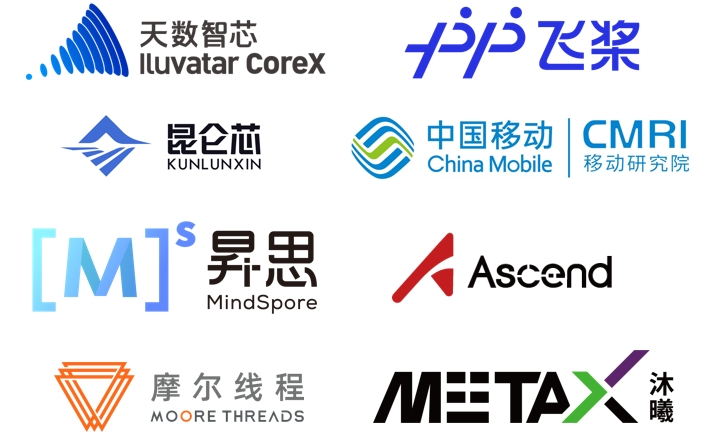
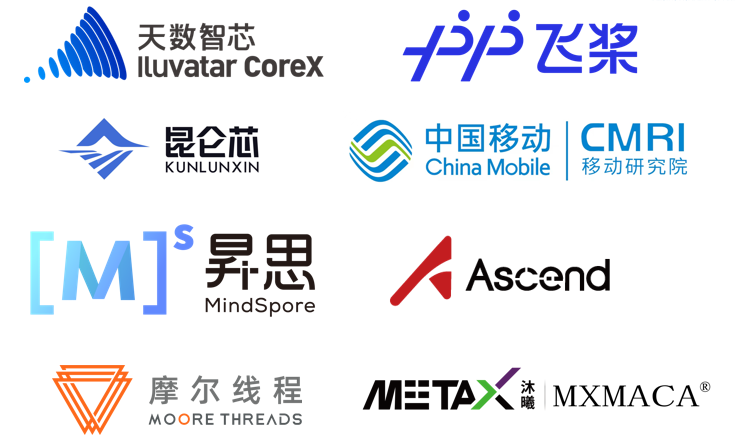
fix update (#437)

diff --git a/README.md b/README.md
@@ -63,6 +63,7 @@
       <th>昆仑芯</th>
       <th>天数智芯</th>
       <th>摩尔线程</th>
+      <th>沐曦</th>
     </tr>
   </thead>
   <tbody>
@@ -74,6 +75,7 @@
       <td>N/A</td>
       <td>N/A</td>
         <td>N/A</td>
+        <td>N/A</td>
     </tr>
     <tr>
       <td>2</td>
@@ -82,6 +84,7 @@
       <td><a href="https://github.com/FlagOpen/FlagPerf/tree/main/training/nvidia/baichuan2_13b-deepspeed">deepspeed</a></td>
       <td>N/A</td>
       <td>N/A</td>
+        <td>N/A</td>
         <td>N/A</td>
     </tr>
     <tr>
@@ -92,6 +95,7 @@
       <td><a href="https://github.com/FlagOpen/FlagPerf/tree/main/training/kunlunxin/bert-paddle">paddle</a>, <a href="https://github.com/FlagOpen/FlagPerf/tree/main/training/kunlunxin/bert-pytorch">pytorch</a></td>
       <td><a href="https://github.com/FlagOpen/FlagPerf/tree/main/training/iluvatar/bert-paddle">paddle</a>, <a href="https://github.com/FlagOpen/FlagPerf/tree/main/training/iluvatar/bert-pytorch">pytorch</a></td>
         <td>N/A</td>
+        <td>N/A</td>
     </tr>
     <tr>
       <td>4</td>
@@ -101,6 +105,7 @@
       <td>N/A</td>
       <td><a href="https://github.com/FlagOpen/FlagPerf/tree/main/training/iluvatar/bert_hf-pytorch">pytorch</a></td>
         <td><a href="https://github.com/FlagOpen/FlagPerf/tree/main/training/mthreads/bert_hf-pytorch">pytorch</a></td>
+        <td>N/A</td>
     </tr>
     <tr>
       <td>5</td>
@@ -109,6 +114,7 @@
       <td><a href="https://github.com/FlagOpen/FlagPerf/tree/main/training/nvidia/bigtransfer-pytorch">pytorch</a></td>
       <td><a href="https://github.com/FlagOpen/FlagPerf/tree/main/training/kunlunxin/bigtransfer-pytorch">pytorch</a></td>
       <td><a href="https://github.com/FlagOpen/FlagPerf/tree/main/training/iluvatar/bigtransfer-pytorch">pytorch</a></td>
+        <td>N/A</td>
         <td>N/A</td>
     </tr>
     <tr>
@@ -119,6 +125,7 @@
       <td><a href="https://github.com/FlagOpen/FlagPerf/tree/main/training/kunlunxin/cpm-pytorch">pytorch</a></td>
       <td><a href="https://github.com/FlagOpen/FlagPerf/tree/main/training/iluvatar/cpm-pytorch">pytorch</a></td>
         <td>N/A</td>
+        <td>N/A</td>
     </tr>
     <tr>
       <td>7</td>
@@ -127,6 +134,7 @@
       <td><a href="https://github.com/FlagOpen/FlagPerf/tree/main/training/nvidia/detr-pytorch">pytorch</a></td>
       <td><a href="https://github.com/FlagOpen/FlagPerf/tree/main/training/kunlunxin/detr-pytorch">pytorch</a></td>
       <td>N/A</td>
+        <td>N/A</td>
         <td>N/A</td>
     </tr>
     <tr>
@@ -137,6 +145,7 @@
       <td><a href="https://github.com/FlagOpen/FlagPerf/tree/main/training/kunlunxin/distilbert-pytorch">pytorch</a></td>
       <td>N/A</td>
         <td>N/A</td>
+        <td>N/A</td>
     </tr>
     <tr>
       <td>9</td>
@@ -145,6 +154,7 @@
       <td><a href="https://github.com/FlagOpen/FlagPerf/tree/main/training/nvidia/dlrm-pytorch">pytorch</a></td>
       <td>N/A</td>
       <td>N/A</td>
+        <td>N/A</td>
         <td>N/A</td>
     </tr>
     <tr>
@@ -155,6 +165,7 @@
       <td><a href="https://github.com/FlagOpen/FlagPerf/tree/main/training/kunlunxin/efficientnet-pytorch">pytorch</a></td>
       <td><a href="https://github.com/FlagOpen/FlagPerf/tree/main/training/iluvatar/efficientnet-pytorch">pytorch</a></td>
         <td>N/A</td>
+        <td>N/A</td>
     </tr>
     <tr>
       <td>11</td>
@@ -164,6 +175,7 @@
       <td><a href="https://github.com/FlagOpen/FlagPerf/tree/main/training/kunlunxin/faster_rcnn-pytorch">pytorch</a></td>
       <td><a href="https://github.com/FlagOpen/FlagPerf/tree/main/training/iluvatar/faster_rcnn-pytorch">pytorch</a></td>
         <td>N/A</td>
+        <td><a href="https://github.com/FlagOpen/FlagPerf/tree/main/training/metax/faster_rcnn-pytorch">pytorch</a></td>
     </tr>
     <tr>
       <td>12</td>
@@ -172,6 +184,7 @@
       <td><a href="https://github.com/FlagOpen/FlagPerf/tree/main/training/nvidia/glm-pytorch">pytorch</a></td>
       <td><a href="https://github.com/FlagOpen/FlagPerf/tree/main/training/kunlunxin/glm-pytorch">pytorch</a></td>
       <td><a href="https://github.com/FlagOpen/FlagPerf/tree/main/training/iluvatar/glm-pytorch">pytorch</a></td>
+        <td>N/A</td>
         <td>N/A</td>
     </tr>
     <tr>
@@ -182,6 +195,7 @@
       <td><a href="https://github.com/FlagOpen/FlagPerf/tree/main/training/kunlunxin/gpt2-pytorch">pytorch</a></td>
       <td>N/A</td>
         <td>N/A</td>
+        <td>N/A</td>
     </tr>
     <tr>
      <td>14</td> 
@@ -190,6 +204,7 @@
       <td><a href="https://github.com/FlagOpen/FlagPerf/tree/main/training/nvidia/gpt3_13B-paddle">paddle</a></td>
       <td>N/A</td>
       <td>N/A</td>
+        <td>N/A</td>
         <td>N/A</td>
     </tr>
     <tr>
@@ -200,6 +215,7 @@
       <td>N/A</td>
       <td>N/A</td>
         <td>N/A</td>
+        <td>N/A</td>
     </tr>
     <tr>
       <td>16</td>
@@ -208,6 +224,7 @@
       <td><a href="https://github.com/FlagOpen/FlagPerf/tree/main/training/nvidia/llama1_13B-paddle">paddle</a></td>
       <td>N/A</td>
       <td>N/A</td>
+        <td>N/A</td>
         <td>N/A</td>
     </tr>
     <tr>
@@ -218,6 +235,7 @@
       <td>N/A</td>
       <td>N/A</td>
         <td>N/A</td>
+        <td>N/A</td>
     </tr>
     <tr>
       <td>18</td>
@@ -227,12 +245,14 @@
       <td><a href="https://github.com/FlagOpen/FlagPerf/pull/348">deepspeed</a></td>
       <td><a href="https://github.com/FlagOpen/FlagPerf/pull/343">deepspeed</a></td>
         <td><a href="https://github.com/FlagOpen/FlagPerf/pull/354">deepspeed</a></td>
+        <td>N/A</td>
     </tr>
       <tr>
       <td>19</td>
           <td><a href="https://github.com/FlagOpen/FlagPerf/tree/main/training/benchmarks/llama2_7b_finetune">llama2_7b_finetune</a></td>
       <td>LLM</td>
       <td><a href="https://github.com/FlagOpen/FlagPerf/tree/main/training/nvidia/llama2_7b_finetune-pytorch">pytorch</a></td>
+      <td>N/A</td>
       <td>N/A</td>
       <td>N/A</td>
       <td>N/A</td>
@@ -245,6 +265,7 @@
       <td>N/A</td>
       <td>N/A</td>
       <td>N/A</td>
+      <td>N/A</td>
     </tr>
     <tr>
       <td>21</td>
@@ -252,6 +273,7 @@
       <td>NLP</td>
       <td><a href="https://github.com/FlagOpen/FlagPerf/tree/main/training/nvidia/longformer-pytorch">pytorch</a></td>
         <td><a href="https://github.com/FlagOpen/FlagPerf/tree/main/training/kunlunxin/longformer-pytorch">pytorch</a></td>
+      <td>N/A</td>
       <td>N/A</td>
       <td>N/A</td>
     </tr>
@@ -263,6 +285,7 @@
       <td><a href="https://github.com/FlagOpen/FlagPerf/tree/main/training/kunlunxin/mask_rcnn-pytorch">pytorch</a></td>
       <td><a href="https://github.com/FlagOpen/FlagPerf/tree/main/training/iluvatar/mask_rcnn-pytorch">pytorch</a></td>
         <td>N/A</td>
+        <td>N/A</td>
     </tr>
     <tr>
       <td>23</td>
@@ -271,6 +294,7 @@
       <td><a href="https://github.com/FlagOpen/FlagPerf/tree/main/training/nvidia/mobilenetv2-pytorch">pytorch</a></td>
       <td><a href="https://github.com/FlagOpen/FlagPerf/tree/main/training/kunlunxin/mobilenetv2-pytorch">pytorch</a></td>
       <td><a href="https://github.com/FlagOpen/FlagPerf/tree/main/training/iluvatar/mobilenetv2-pytorch">pytorch</a></td>
+        <td>N/A</td>
         <td>N/A</td>
     </tr>
     <tr>
@@ -281,6 +305,7 @@
       <td><a href="https://github.com/FlagOpen/FlagPerf/tree/main/training/kunlunxin/resnet50-pytorch">pytorch</a></td>
       <td><a href="https://github.com/FlagOpen/FlagPerf/tree/main/training/iluvatar/resnet50-pytorch">pytorch</a></td>
         <td><a href="https://github.com/FlagOpen/FlagPerf/tree/main/training/mthreads/resnet50-pytorch">pytorch</a></td>
+        <td><a href="https://github.com/FlagOpen/FlagPerf/tree/main/training/metax/resnet50-pytorch">pytorch</a></td>
     </tr>
     <tr>
       <td>25</td>
@@ -290,6 +315,7 @@
       <td><a href="https://github.com/FlagOpen/FlagPerf/tree/main/training/kunlunxin/retinanet-pytorch">pytorch</a></td>
       <td><a href="https://github.com/FlagOpen/FlagPerf/tree/main/training/iluvatar/retinanet-pytorch">pytorch</a></td>
         <td><a href="https://github.com/FlagOpen/FlagPerf/tree/main/training/mthreads/retinanet-pytorch">pytorch</a></td>
+         <td><a href="https://github.com/FlagOpen/FlagPerf/tree/main/training/metax/retinanet-pytorch">pytorch</a></td>
     </tr>
     <tr>
       <td>26</td>
@@ -299,6 +325,7 @@
       <td><a href="https://github.com/FlagOpen/FlagPerf/tree/main/training/kunlunxin/swin_transformer-pytorch">pytorch</a></td>
       <td><a href="https://github.com/FlagOpen/FlagPerf/tree/main/training/iluvatar/swin_transformer-pytorch">pytorch</a></td>
         <td>N/A</td>
+        <td><a href="https://github.com/FlagOpen/FlagPerf/tree/main/training/metax/swin_transformer-pytorch">pytorch</a></td>
     </tr>
     <tr>
       <td>27</td>
@@ -308,6 +335,7 @@
       <td><a href="https://github.com/FlagOpen/FlagPerf/tree/main/training/kunlunxin/t5_small-pytorch">pytorch</a></td>
       <td>N/A</td>
         <td>N/A</td>
+         <td><a href="https://github.com/FlagOpen/FlagPerf/tree/main/training/metax/t5_small-pytorch">pytorch</a></td>
     </tr>
     <tr>
       <td>28</td>
@@ -316,6 +344,7 @@
       <td><a href="https://github.com/FlagOpen/FlagPerf/tree/main/training/nvidia/tacotron2-pytorch">pytorch</a></td>
       <td><a href="https://github.com/FlagOpen/FlagPerf/tree/main/training/kunlunxin/tacotron2-pytorch">pytorch</a></td>
       <td><a href="https://github.com/FlagOpen/FlagPerf/tree/main/training/iluvatar/tacotron2-pytorch">pytorch</a></td>
+        <td>N/A</td>
         <td>N/A</td>
     </tr>
     <tr>
@@ -326,6 +355,7 @@
       <td><a href="https://github.com/FlagOpen/FlagPerf/tree/main/training/kunlunxin/transformer-pytorch">pytorch</a></td>
       <td><a href="https://github.com/FlagOpen/FlagPerf/tree/main/training/iluvatar/transformer-pytorch">pytorch</a></td>
         <td>N/A</td>
+        <td>N/A</td>
     </tr>
     <tr>
       <td>30</td>
@@ -335,6 +365,7 @@
       <td><a href="https://github.com/FlagOpen/FlagPerf/tree/main/training/kunlunxin/transformer_xl-pytorch">pytorch</a></td>
       <td>N/A</td>
         <td>N/A</td>
+        <td><a href="https://github.com/FlagOpen/FlagPerf/tree/main/training/metax/transformer_xl-pytorch">pytorch</a></td>
     </tr>
     <tr>
       <td>31</td>
@@ -343,6 +374,7 @@
       <td><a href="https://github.com/FlagOpen/FlagPerf/tree/main/training/nvidia/vit-pytorch">pytorch</a></td>
       <td><a href="https://github.com/FlagOpen/FlagPerf/tree/main/training/kunlunxin/vit-pytorch">pytorch</a></td>
       <td><a href="https://github.com/FlagOpen/FlagPerf/tree/main/training/iluvatar/vit-pytorch">pytorch</a></td>
+        <td>N/A</td>
         <td>N/A</td>
     </tr>
     <tr>
@@ -353,6 +385,7 @@
       <td><a href="https://github.com/FlagOpen/FlagPerf/tree/main/training/kunlunxin/wav2vec2-pytorch">pytorch</a></td>
       <td>N/A</td>
         <td>N/A</td>
+        <td>N/A</td>
     </tr>
     <tr>
       <td>33</td>
@@ -361,6 +394,7 @@
       <td><a href="https://github.com/FlagOpen/FlagPerf/tree/main/training/nvidia/WaveGlow-pytorch">pytorch</a></td>
       <td>N/A</td>
       <td>N/A</td>
+        <td>N/A</td>
         <td>N/A</td>
     </tr>
   </tbody>

diff --git a/training/nvidia/detr-pytorch/README.md b/training/nvidia/detr-pytorch/README.md
@@ -42,4 +42,4 @@
 | ------------------- | --------- | -------------- | -------- | ------- | ------- | ------ | ----- | --------- |
 | A100单机8卡（1x8）  | fp32      | bs=8,lr=0.0001 | 220047   | 161.32  | 172.99  | 208.68 | 0.405 | 37.2/40.0 |
 | A100单机单卡（1x1） | fp32      | bs=8,lr=0.0001 | /        | 27.98   | 29.25   | 33.71  | /     | 38.2/40.0 |
-| A100两机8卡（2x8）  | fp32      |                | /        |         |         |        | /     |           |
+| A100两机16卡（2x8）  | fp32      |     /           | /        | 309.5        |  332.7       |  378.1      | /     |   39.6/40.0        |

diff --git a/training/nvidia/gpt2-pytorch/README.md b/training/nvidia/gpt2-pytorch/README.md
@@ -40,3 +40,4 @@
 | ------------------- | --------- | ---------------- | -------- | ------- | ------- | ------ | ----------- | --------- |
 | A100单机单卡（1x1） | fp32      | / | /        | 9.6     | 14.2    | 14.2   | /           | 30.2/40.0 |
 | A100单机8卡（1x8）  | fp32      | / | 10352.7  | 68.6    | 97.5    | 97.6   | 0.60        | 31.3/40.0 |
+| A100两机16卡（2x8）  | fp32      | / | /  | 116    | 156.5    | 156.6   | /        | 29.9/40.0 |
